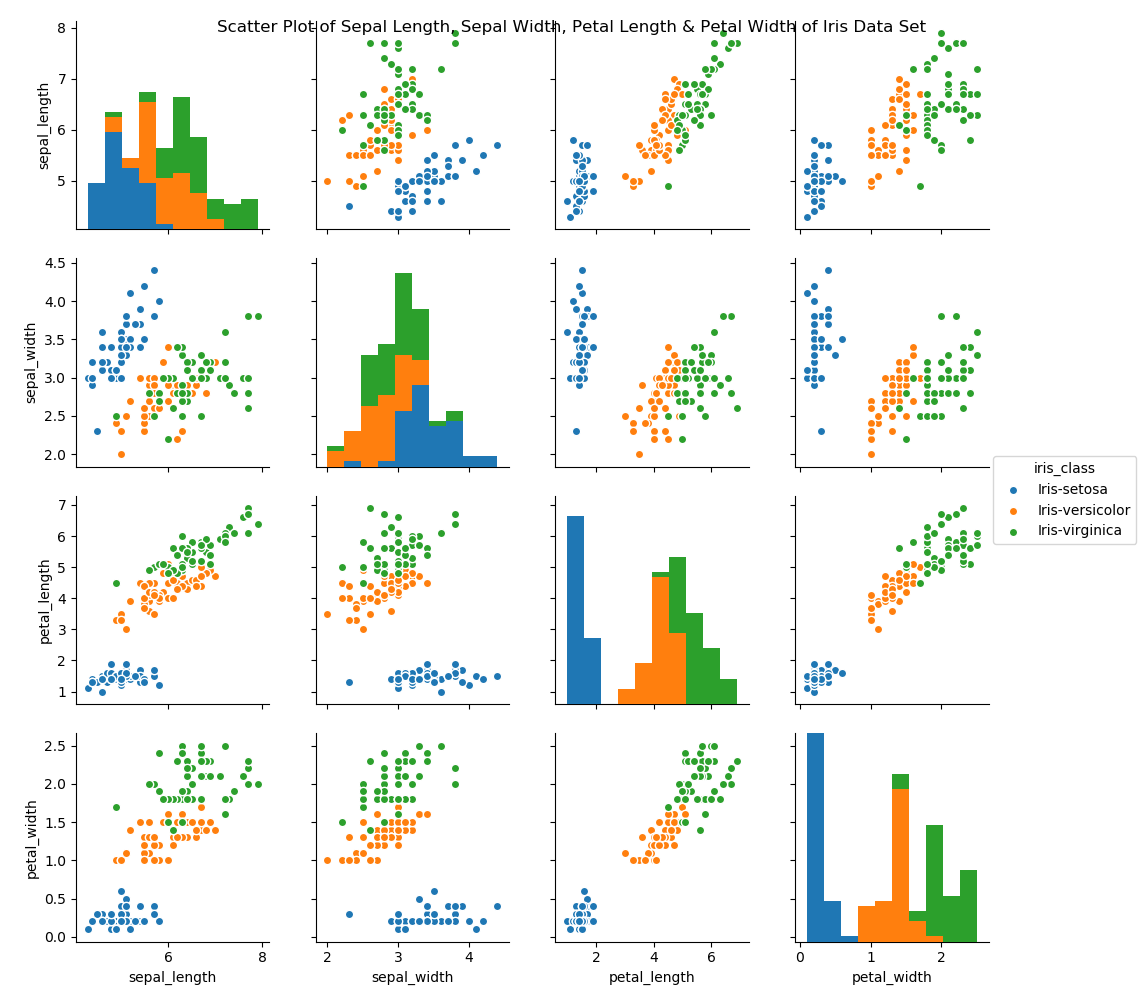
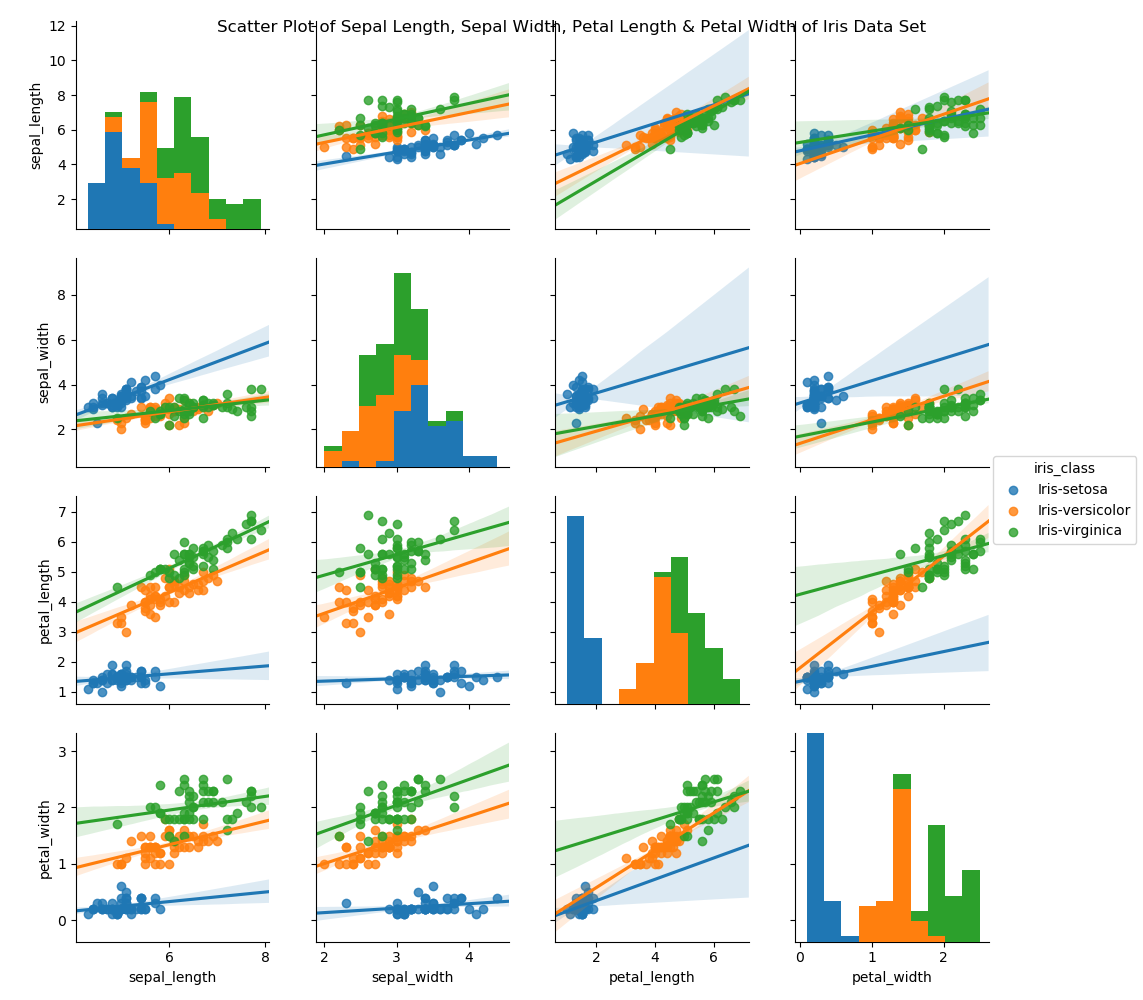
Data Analysis - Coloured Scatter
Add coloured scatter plot

diff --git a/data_analysis.py b/data_analysis.py
@@ -84,7 +84,18 @@ print(iris_data[virginica].describe())
 # plt.savefig('./images/scatter_plot.png', bbox_inches='tight')
 # plt.show()
 
-pp = sbn.pairplot(iris_data, kind='scatter', hue='iris_class')
+# pp = sbn.pairplot(iris_data, kind='scatter', hue='iris_class')
+# plt.suptitle('Scatter Plot of Sepal Length, Sepal Width, Petal Length & Petal Width of Iris Data Set')
+# plt.savefig('./images/hue_scatter_plot.png')
+# plt.show()
+
+# iris = pd.melt(iris_data, 'iris_class', var_name="Measurement(cm)")
+# pp = sbn.swarmplot(data=iris, x='Measurement(cm)', y='value', hue='iris_class')
+# plt.suptitle('Swarm Plot of Sepal Length, Sepal Width, Petal Length & Petal Width of Iris Data Set')
+# plt.savefig('./images/hue_scatter_plot.png')
+# plt.show()
+
+pp = sbn.pairplot(iris_data, kind='reg', hue='iris_class')
 plt.suptitle('Scatter Plot of Sepal Length, Sepal Width, Petal Length & Petal Width of Iris Data Set')
 plt.savefig('./images/hue_scatter_plot.png')
 plt.show()

diff --git a/README.md b/README.md
@@ -209,6 +209,9 @@ plt.savefig('./images/scatter_plot.png', bbox_inches='tight')
 ![alt text](../master/images/scatter_plot.png "Iris Data Set - Scatter Plot")
 
 It is not very clear from the similar colour of the two columns plotted against each other in the above plot so the [_Seaborn_](https://seaborn.pydata.org/) statistical visualisation library provides an easier method to generate a more descernable plot:
+<p align="right">
+  <a href="https://github.com/geromahony/da2018-prog-script-project#table-of-contents">[Go to Top]</a>
+</p>
 
 ```python
 import seaborn as sbn
@@ -220,7 +223,7 @@ plt.savefig('./images/hue_scatter_plot.png')
 
 ![alt text](../master/images/hue_scatter_plot.png "Iris Data Set - Scatter Plot")
 
-Each Iris class is clearly defined by colour and as before there is strong similarities shown between the two species Iris-versicolor and Iris-virgiinica as evidenced by the close grouping of both across a combination of petal length/width vs sepal length/width variables. 
+Each Iris class is clearly defined by colour and as before there is strong similarities shown between the two species Iris-versicolor and Iris-virgiinica as evidenced by the close grouping of both across a combination of petal length/width vs sepal length/width variables while the Iris-setosa species is clearly distint and grouped on its own across all feature pairings. 
 
 ---
 ### Conclusions
